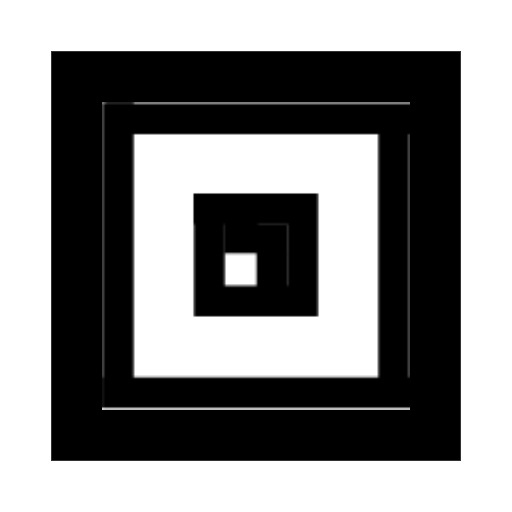
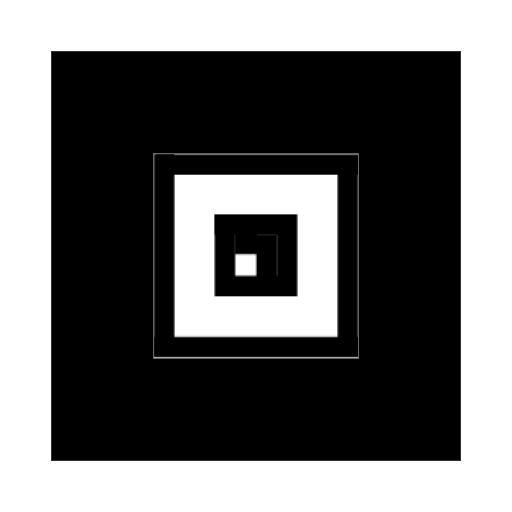
moved to eyeball with 50% pattern radio 7u7

diff --git a/public/ar/eyeball.html b/public/ar/eyeball.html
@@ -9,13 +9,9 @@
         url="/ar/trackers/pattern-ar_eyeball_0.patt" 
         type="pattern" 
         preset="custom"
-        patternRatio="0.75"
       >
-        <a-entity
-          position="0 0 0"
-          scale="0.05 0.05 0.05"
-          gltf-model="https://arjs-cors-proxy.herokuapp.com/https://raw.githack.com/AR-js-org/AR.js/master/aframe/examples/image-tracking/nft/trex/scene.gltf"
-        ></a-entity>
+      <a-entity text="value: Hello World💋;"></a-entity>
+        
       </a-marker>
       <a-entity camera></a-entity>
     </a-scene>
@@ -23,3 +19,5 @@
 </html>
 
 <!--//https://ar-js-org.github.io/AR.js/three.js/examples/marker-training/examples/generator.html-->
+<!-- couldn't figure out how to set pattern ratio to something different than .5 so I use default size as hiro-->
+<!-- note, ar code must be rotationally asymmetric-->

diff --git a/public/ar/hiro.html b/public/ar/hiro.html
@@ -9,6 +9,7 @@
         <a-entity
           position="0 0 0"
           scale="0.05 0.05 0.05"
+          rotation="0 -180 0"
           gltf-model="https://arjs-cors-proxy.herokuapp.com/https://raw.githack.com/AR-js-org/AR.js/master/aframe/examples/image-tracking/nft/trex/scene.gltf"
         ></a-entity>
       </a-marker>
